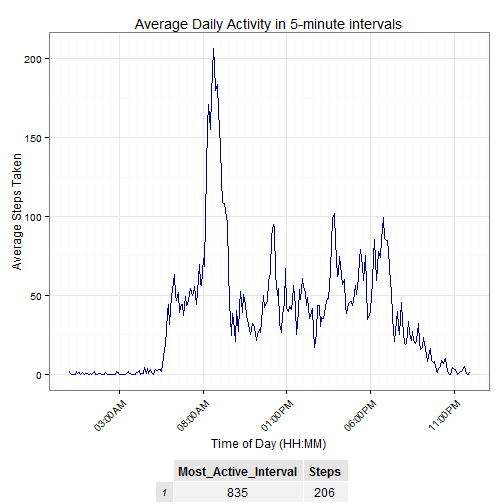
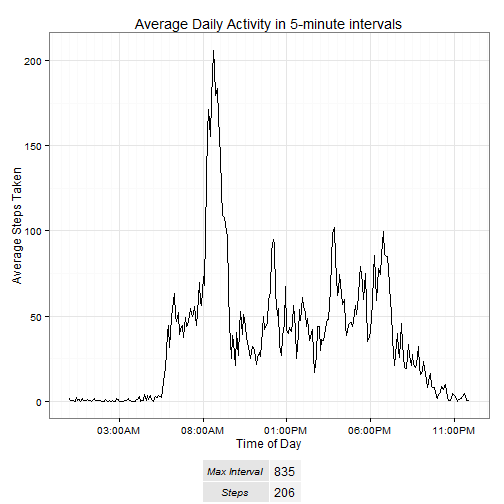
final

diff --git a/PA1_template.html b/PA1_template.html
@@ -262,9 +262,9 @@ bydate &lt;- act_clean %&gt;%
 byint &lt;- act_clean %&gt;%
           group_by(interval) %&gt;%
           summarize(steps=mean(steps))
-#creating an interval datetime variable 
-byint_plot &lt;- byint 
-byint_plot$timeint&lt;-as.POSIXct(sprintf(&quot;%04d&quot;,byint_plot$interval), tz=&quot;UTC&quot;, format=&quot;%H%M&quot;)
+#format the datetime values 
+bydate$date &lt;- as.Date(strptime(bydate$date, format=&quot;%Y-%m-%d&quot;))
+byint$timeint&lt;-as.POSIXct(sprintf(&quot;%04d&quot;,byint$interval), tz=&quot;UTC&quot;, format=&quot;%H%M&quot;)
 </code></pre>
 
 <p>##What is mean total number of steps taken per day?<br/>
@@ -292,10 +292,10 @@ grid.arrange(plot1, tableGrob(format(table1, nsmall=2), show.colnames = FALSE), 
 <p>The dataframe <code>byint</code> contains the average steps at each 5-min interval. Each interval is averaged across all days reported in the data (currently with NAs removed). In the next figure, we plot the average steps against the time interval. The table reports the maximum steps and the associated interval (rounded). </p>
 
 <pre><code class="r">#calculate maximum avg. steps and its matching interval
-values &lt;- rbind(byint$interval[which.max(byint$steps)], max(byint_plot$steps))
+values &lt;- rbind(byint$interval[which.max(byint$steps)], max(byint$steps))
 table2 &lt;- data.frame(values, row.names=c(&quot;Max Interval&quot;, &quot;Steps&quot;))
 #plot
-plot2 &lt;- ggplot(data=byint_plot, aes(x=timeint, y=steps))
+plot2 &lt;- ggplot(data=byint, aes(x=timeint, y=steps))
 plot2 &lt;- plot2 + geom_line(color=&quot;black&quot;) +
   labs(title=&quot;Average Daily Activity in 5-minute intervals&quot;,
      x=&quot;Time of Day&quot;,
@@ -352,33 +352,21 @@ bydate2 &lt;- act2 %&gt;%
         summarize(steps=sum(steps)) 
 #create summary table
 values &lt;- rbind(mean(bydate2$steps),median(bydate2$steps))
-tableN &lt;- data.frame(values, row.names=c(&quot;New Mean&quot;, &quot;New Median&quot;))
-table3 &lt;- rbind(table1, tableN)
+tableA &lt;- data.frame(values, row.names=c(&quot;New Mean&quot;, &quot;New Median&quot;))
+table3 &lt;- rbind(table1, tableA)
+#Combne the two sets of data for plotting
+bydate &lt;- mutate(bydate, Dataset=&quot;Original&quot;)
+bydate2 &lt;- mutate(bydate2, Dataset=&quot;Imputed&quot;)
+bydate3 &lt;- rbind(bydate, bydate2)
 #plot
 plot3 &lt;- ggplot(data=bydate3, aes(x=steps))
-</code></pre>
-
-<pre><code>## Error in ggplot(data = bydate3, aes(x = steps)): object &#39;bydate3&#39; not found
-</code></pre>
-
-<pre><code class="r">plot3 &lt;- plot3 + geom_histogram(stat=&quot;bin&quot;, binwidth=max(bydate2$steps)/15,color=&quot;dark green&quot;, fill=&quot;grey&quot;) + facet_wrap(~ Dataset) 
-</code></pre>
-
-<pre><code>## Error in eval(expr, envir, enclos): object &#39;plot3&#39; not found
-</code></pre>
-
-<pre><code class="r">plot3 &lt;- plot3 + labs(title=&quot;Total number of steps taken per day&quot;, x=&quot;Total steps per day&quot;, y=&quot;Frequency&quot;) + geom_vline(xintercept=mean(bydate2$steps), color=&quot;blue&quot;, lty=2) + geom_vline(xintercept=median(bydate2$steps),color=&quot;red&quot;, lty=5) + theme_bw()
-</code></pre>
-
-<pre><code>## Error in eval(expr, envir, enclos): object &#39;plot3&#39; not found
-</code></pre>
-
-<pre><code class="r">#Plot and Table Layout
+plot3 &lt;- plot3 + geom_histogram(stat=&quot;bin&quot;, binwidth=max(bydate2$steps)/15,color=&quot;dark green&quot;, fill=&quot;grey&quot;) + facet_wrap(~ Dataset) 
+plot3 &lt;- plot3 + labs(title=&quot;Total number of steps taken per day&quot;, x=&quot;Total steps per day&quot;, y=&quot;Frequency&quot;) + geom_vline(xintercept=mean(bydate2$steps), color=&quot;blue&quot;, lty=2) + geom_vline(xintercept=median(bydate2$steps),color=&quot;red&quot;, lty=5) + theme_bw()
+#Plot and Table Layout
 grid.arrange(plot3, tableGrob(format(table3,nsmall=2), show.colnames=FALSE), nrow=2, heights=c(1,0.25))
 </code></pre>
 
-<pre><code>## Error in arrangeGrob(..., as.table = as.table, clip = clip, main = main, : object &#39;plot3&#39; not found
-</code></pre>
[1 lines of base64/hex data omitted]
 
 <p>We can confirm that the mean and median have not changed much in the imputed data. After imputation, the mean and median are closer to each other. We can observe from the histogram that the main effect was to increase the number of counts in the bin that contains the mean and median. </p>
 
@@ -423,12 +411,12 @@ plot4
 <p>##Conclusions<br/>
   Using a downloaded .csv file of activity data as the input we can use R, Markdown and Knitr to create a customized analysis output from any giving dataset, which we can then use for several applications. For example, one can generate reports of activity levels as a way to track oneself to a healthier lifestyle. </p>
 
-<p>###Appendix: Additional plots which may be of interest<br/>
+<p>##Appendix: Additional plots which may be of interest<br/>
   Here&#39;s two additional plots that I also made while playing around with this data. In the first one, I plotted the daily steps against the date, and made a very crude attempt at finding a trend in the data. The second plot is just an &ldquo;expanded&rdquo; version of the weekend vs. weekday plot.  </p>
 
-<pre><code class="r">#aggregate summed steps by day
+<pre><code class="r">#aggregate data by day 
 act5 &lt;- act3 %&gt;%
-  group_by(date) %&gt;%
+  group_by(date,dow) %&gt;%
   summarize(steps=sum(steps))
 #plot
 plotX &lt;- ggplot(act5, aes(x=ymd(date),y=steps)) + 
@@ -436,8 +424,7 @@ plotX &lt;- ggplot(act5, aes(x=ymd(date),y=steps)) +
   geom_hline(yintercept=mean(act5$steps), color=&quot;red&quot;, lty=1, lwd=2, alpha=0.5) 
 plotX &lt;- plotX + labs(title=&quot;Total Daily Steps\n From Oct 1 to Dec 1, 2012&quot;, 
                       x=&quot;Date&quot;, y=&quot;Total Daily Steps&quot;) +
-  theme_bw() +
-  geom_smooth(method=&quot;auto&quot;)
+  theme_bw()
 
 #aggregate by interval and day
 act6 &lt;- act3 %&gt;%
@@ -458,10 +445,7 @@ plotY &lt;- plotY +
 grid.arrange(plotX, plotY, nrow=2)
 </code></pre>
 
-<pre><code>## geom_smooth: method=&quot;auto&quot; and size of largest group is &lt;1000, so using loess. Use &#39;method = x&#39; to change the smoothing method.
-</code></pre>
-
[2 lines of base64/hex data omitted]
 
 </body>
 

diff --git a/PA1_template.md b/PA1_template.md
@@ -68,9 +68,9 @@ bydate <- act_clean %>%
 byint <- act_clean %>%
           group_by(interval) %>%
           summarize(steps=mean(steps))
-#creating an interval datetime variable 
-byint_plot <- byint 
-byint_plot$timeint<-as.POSIXct(sprintf("%04d",byint_plot$interval), tz="UTC", format="%H%M")
+#format the datetime values 
+bydate$date <- as.Date(strptime(bydate$date, format="%Y-%m-%d"))
+byint$timeint<-as.POSIXct(sprintf("%04d",byint$interval), tz="UTC", format="%H%M")
 ```
 
 ##What is mean total number of steps taken per day?  
@@ -102,10 +102,10 @@ grid.arrange(plot1, tableGrob(format(table1, nsmall=2), show.colnames = FALSE), 
 
 ```r
 #calculate maximum avg. steps and its matching interval
-values <- rbind(byint$interval[which.max(byint$steps)], max(byint_plot$steps))
+values <- rbind(byint$interval[which.max(byint$steps)], max(byint$steps))
 table2 <- data.frame(values, row.names=c("Max Interval", "Steps"))
 #plot
-plot2 <- ggplot(data=byint_plot, aes(x=timeint, y=steps))
+plot2 <- ggplot(data=byint, aes(x=timeint, y=steps))
 plot2 <- plot2 + geom_line(color="black") +
   labs(title="Average Daily Activity in 5-minute intervals",
      x="Time of Day",
@@ -174,40 +174,21 @@ bydate2 <- act2 %>%
         summarize(steps=sum(steps)) 
 #create summary table
 values <- rbind(mean(bydate2$steps),median(bydate2$steps))
-tableN <- data.frame(values, row.names=c("New Mean", "New Median"))
-table3 <- rbind(table1, tableN)
+tableA <- data.frame(values, row.names=c("New Mean", "New Median"))
+table3 <- rbind(table1, tableA)
+#Combne the two sets of data for plotting
+bydate <- mutate(bydate, Dataset="Original")
+bydate2 <- mutate(bydate2, Dataset="Imputed")
+bydate3 <- rbind(bydate, bydate2)
 #plot
 plot3 <- ggplot(data=bydate3, aes(x=steps))
-```
-
-```
-## Error in ggplot(data = bydate3, aes(x = steps)): object 'bydate3' not found
-```
-
-```r
 plot3 <- plot3 + geom_histogram(stat="bin", binwidth=max(bydate2$steps)/15,color="dark green", fill="grey") + facet_wrap(~ Dataset) 
-```
-
-```
-## Error in eval(expr, envir, enclos): object 'plot3' not found
-```
-
-```r
 plot3 <- plot3 + labs(title="Total number of steps taken per day", x="Total steps per day", y="Frequency") + geom_vline(xintercept=mean(bydate2$steps), color="blue", lty=2) + geom_vline(xintercept=median(bydate2$steps),color="red", lty=5) + theme_bw()
-```
-
-```
-## Error in eval(expr, envir, enclos): object 'plot3' not found
-```
-
-```r
 #Plot and Table Layout
 grid.arrange(plot3, tableGrob(format(table3,nsmall=2), show.colnames=FALSE), nrow=2, heights=c(1,0.25))
 ```
 
-```
-## Error in arrangeGrob(..., as.table = as.table, clip = clip, main = main, : object 'plot3' not found
-```
+![Before and After Imputing Missing Data](figure/plot3-1.png) 
 
   We can confirm that the mean and median have not changed much in the imputed data. After imputation, the mean and median are closer to each other. We can observe from the histogram that the main effect was to increase the number of counts in the bin that contains the mean and median. 
 
@@ -255,15 +236,14 @@ plot4
 ##Conclusions  
   Using a downloaded .csv file of activity data as the input we can use R, Markdown and Knitr to create a customized analysis output from any giving dataset, which we can then use for several applications. For example, one can generate reports of activity levels as a way to track oneself to a healthier lifestyle. 
   
-  
-###Appendix: Additional plots which may be of interest  
+##Appendix: Additional plots which may be of interest  
   Here's two additional plots that I also made while playing around with this data. In the first one, I plotted the daily steps against the date, and made a very crude attempt at finding a trend in the data. The second plot is just an "expanded" version of the weekend vs. weekday plot.  
 
 
 ```r
-#aggregate summed steps by day
+#aggregate data by day 
 act5 <- act3 %>%
-  group_by(date) %>%
+  group_by(date,dow) %>%
   summarize(steps=sum(steps))
 #plot
 plotX <- ggplot(act5, aes(x=ymd(date),y=steps)) + 
@@ -271,8 +251,7 @@ plotX <- ggplot(act5, aes(x=ymd(date),y=steps)) +
   geom_hline(yintercept=mean(act5$steps), color="red", lty=1, lwd=2, alpha=0.5) 
 plotX <- plotX + labs(title="Total Daily Steps\n From Oct 1 to Dec 1, 2012", 
                       x="Date", y="Total Daily Steps") +
-  theme_bw() +
-  geom_smooth(method="auto")
+  theme_bw()
 
 #aggregate by interval and day
 act6 <- act3 %>%
@@ -291,10 +270,6 @@ plotY <- plotY +
                    labels=date_format("%I:%M%p")) +
   theme_bw()
 grid.arrange(plotX, plotY, nrow=2)
-```
-
-```
-## geom_smooth: method="auto" and size of largest group is <1000, so using loess. Use 'method = x' to change the smoothing method.
 ```
 
 ![Additional plots](figure/extra-1.png) 
